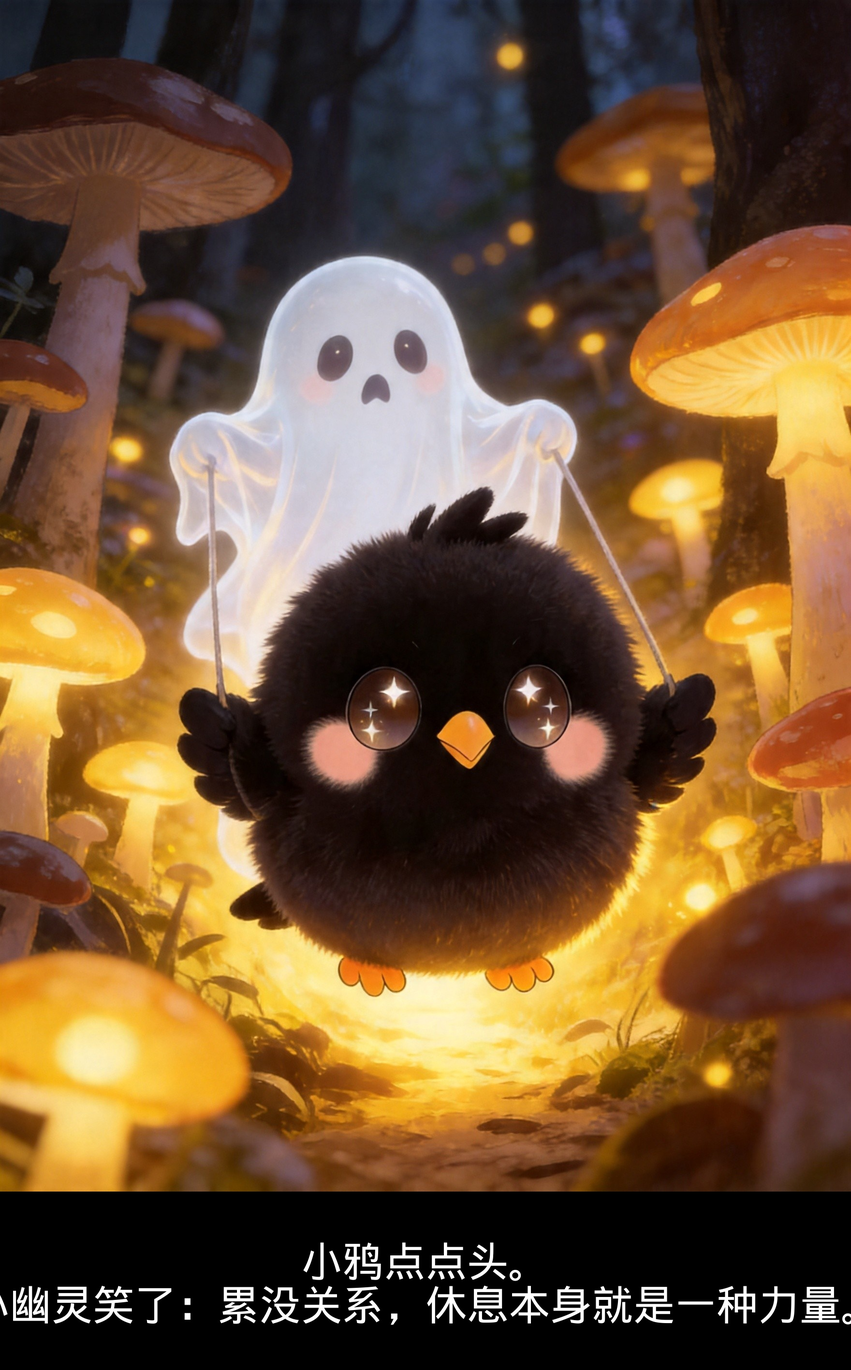
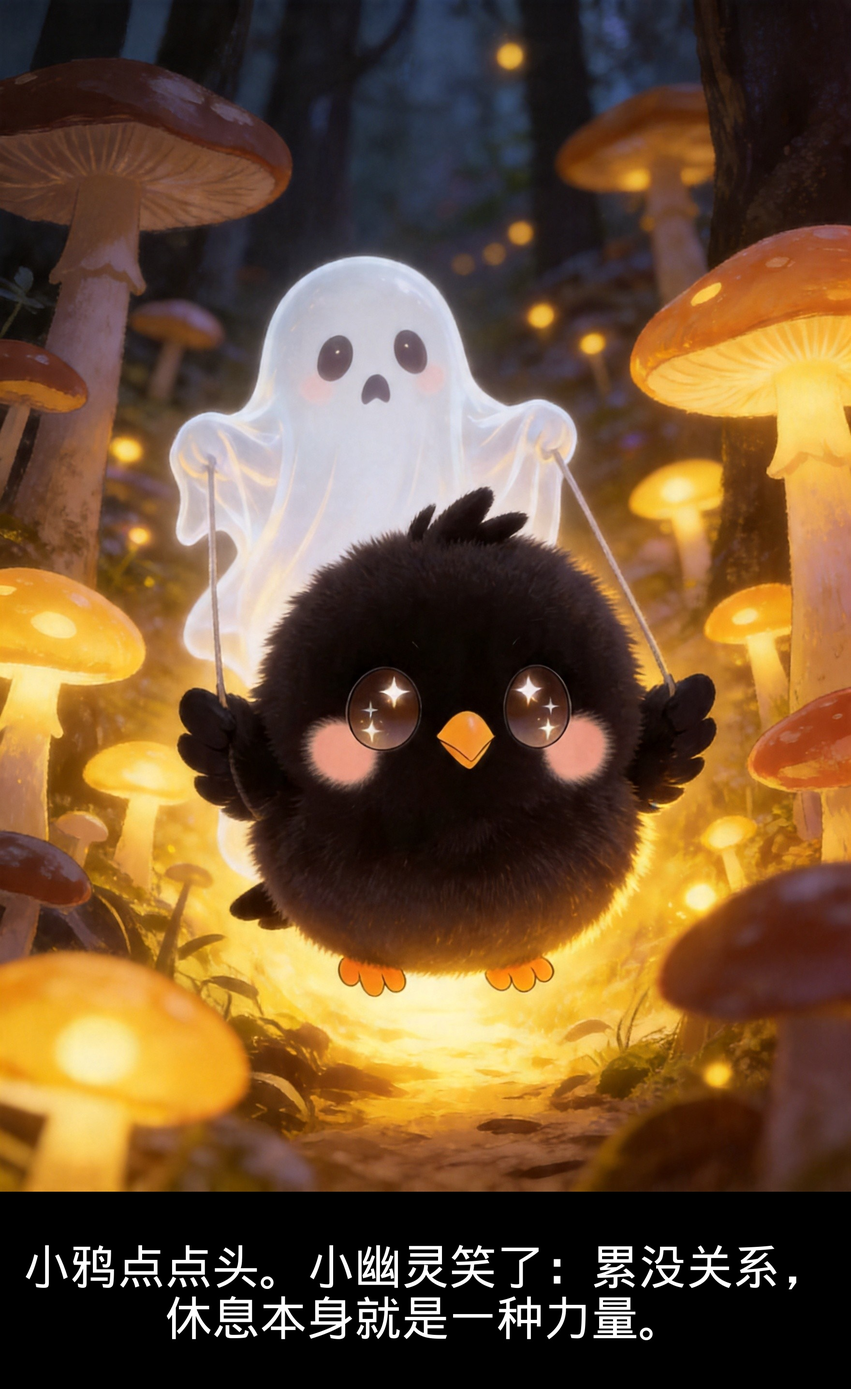
修复：绘本文字显示完整 + 更新12鸦格形象图

diff --git a/story.html b/story.html
@@ -71,10 +71,10 @@
             display: flex;
             align-items: center;
             justify-content: center;
-            padding: 60px 12px 80px;
+            padding: 70px 16px 90px;
         }
         .page-wrapper {
-            max-width: 400px;
+            max-width: 420px;
             width: 100%;
             height: 100%;
             display: flex;
@@ -85,6 +85,8 @@
         .story-page {
             max-width: 100%;
             max-height: 100%;
+            width: auto;
+            height: auto;
             border-radius: 12px;
             box-shadow: 0 8px 32px rgba(0,0,0,0.4);
             object-fit: contain;
